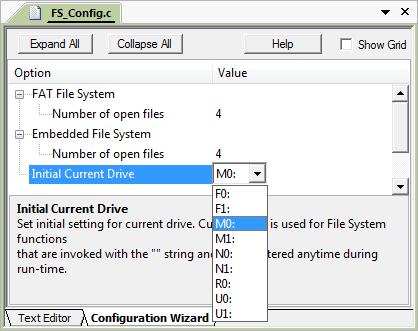
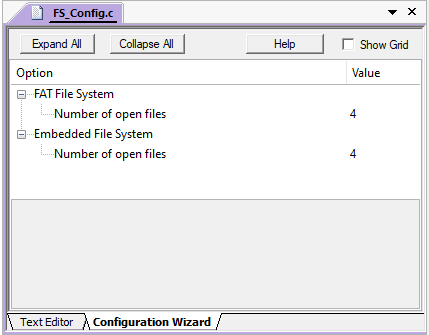
FileSystem: remove initial current drive configuration option
- use automatic current drive assignment (based on first alphabetical drive letter)

diff --git a/FileSystem/Config/FS_Config.c b/FileSystem/Config/FS_Config.c
@@ -1,10 +1,10 @@
 /*------------------------------------------------------------------------------
  * MDK Middleware - Component ::File System
- * Copyright (c) 2004-2023 Arm Limited (or its affiliates). All rights reserved.
+ * Copyright (c) 2004-2024 Arm Limited (or its affiliates). All rights reserved.
  *------------------------------------------------------------------------------
  * Name:    FS_Config.c
  * Purpose: File System Configuration
- * Rev.:    V6.4.0
+ * Rev.:    V6.5.0
  *----------------------------------------------------------------------------*/
 
 //-------- <<< Use Configuration Wizard in Context Menu >>> --------------------
@@ -28,14 +28,5 @@
 #define EFS_MAX_OPEN_FILES      4
 
 // </h>
-
-// <o>Initial Current Drive <0=>F0: <1=>F1:
-//                          <2=>M0: <3=>M1:
-//                          <4=>N0: <5=>N1:
-//                          <6=>R0: <9=>R1:
-//                          <7=>U0: <8=>U1:
-// <i>Set initial setting for current drive. Current drive is used for File System functions
-// <i>that are invoked with the "" string and can be altered anytime during run-time.
-#define FS_INITIAL_CDRIVE       2
 
 #include "fs_config.h"

diff --git a/FileSystem/Include/fs_config.h b/FileSystem/Include/fs_config.h
@@ -92,9 +92,18 @@
   #define USB1_ENABLE   0
 #endif
 /* ---------------------------------------------------------------------------*/
-/* Verify correct current drive configuration */
-#if ((FS_INITIAL_CDRIVE < 0) || (FS_INITIAL_CDRIVE > 9))
-  #error "Initial Current Drive configuration invalid"
+#ifndef FS_INITIAL_CDRIVE
+/* Initial Current Drive <0=>F0: <1=>F1:
+                         <2=>M0: <3=>M1:
+                         <4=>N0: <5=>N1:
+                         <6=>R0: <9=>R1:
+                         <7=>U0: <8=>U1: */
+  #define FS_INITIAL_CDRIVE   -1
+#else
+  /* Verify correct current drive configuration */
+  #if ((FS_INITIAL_CDRIVE < 0) || (FS_INITIAL_CDRIVE > 9))
+    #error "Initial Current Drive configuration invalid"
+  #endif
 #endif
 /* ---------------------------------------------------------------------------*/
 /* Initial Current Drive configuration */

diff --git a/FileSystem/Source/fs_mapi.c b/FileSystem/Source/fs_mapi.c
@@ -60,10 +60,13 @@ static void fs_component_init (void) {
       fs_efs_fh[i].flags = 0;
     }
 
-    /* Set initial current drive as current drive */
+    /* Set current drive */
+    fs_set_cdrive (0);
     for (dev = &fs_DevPool[0], i = 0; i < fs_ndrv; i++, dev++) {
       if (dev->attr & FS_CUR) {
+        /* Initial current drive was already defined */
         fs_set_cdrive ((int32_t)i);
+        break;
       }
     }
     cfg_done = 1U;
